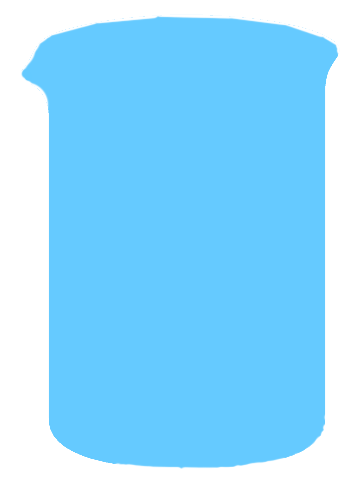
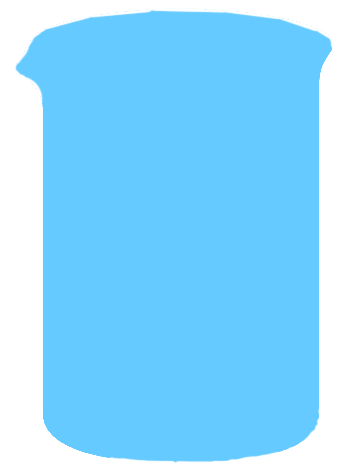
edits to mask, buttons move mask now

diff --git a/src/scripts/objects/glassware.ts b/src/scripts/objects/glassware.ts
@@ -16,22 +16,28 @@ export default class Glassware extends Phaser.GameObjects.Sprite {
     constructor(scene: Phaser.Scene, x: number, y: number, typeinput: string) {
         super(scene, x, y, typeinput); 
         this.setTintFill(0xCCC); //gradient [topLeft] [, topRight] [, bottomLeft] [, bottomRight]
+        
+        this.graphics = scene.add.graphics();
+        //this.graphics.fillStyle(0xff00ff, 1); //mask shape color
+        this.waterImage = new GameObjects.Sprite(scene, x,y, typeinput+'Fill');
+
+        let w = this.waterImage.width*2;
+        this.maskShape = this.graphics.fillRoundedRect(x-w/2, y- this.waterImage.height/2, w , this.waterImage.height-5, { tl: 0, tr: 0, bl: w/2, br: w/2 });
+        
+        this.mask = this.waterImage.createGeometryMask(this.graphics);
+        this.mask.invertAlpha = true;
+        this.waterImage.setMask(this.mask);
+        this.clearMask(); //mask off of lineart for some reason
+        //maskShape.y-=100;
+
+        scene.add.existing(this.waterImage);
+        
         scene.add.existing(this);
     }
 
-    addWater(){
-        if(this.waterAmount < this.max){
-            this.waterAmount += this.max/20;
-            //this.maskShape.y -= this.max/20
-        }
-    }
+    addWater(){};
 
-    subtractWater(){
-        if(this.waterAmount > 0){
-            this.waterAmount -= this.max/20;
-            //this.maskShape.y -= this.max/20
-        }
-    }
+    subtractWater(){};
 
     
 

diff --git a/src/scripts/scenes/mainScene.ts b/src/scripts/scenes/mainScene.ts
@@ -35,20 +35,6 @@ export default class MainScene extends Phaser.Scene {
     let y = 300;
     this.glassware = new Beaker(this, x, y).setDepth(99);
     
-    this.graphics = this.add.graphics();
-    //this.graphics.fillStyle(0xff00ff, 1);
-    this.waterImage = new GameObjects.Sprite(this, x,y,'beakerFill');
-
-    let w = this.waterImage.width*2;
-    let maskShape = this.graphics.fillRoundedRect(x-w/2, y- this.waterImage.height/2, w , this.waterImage.height, { tl: 0, tr: 0, bl: w/2, br: w/2 });
-    
-    this.mask = this.waterImage.createGeometryMask(this.graphics);
-    this.mask.invertAlpha = true;
-    this.waterImage.setMask(this.mask);
-    //this.waterImage.clearMask(); //mask off of lineart for some reason
-    maskShape.y-=100;
-
-    this.add.existing(this.waterImage);
 
 
   this.testtext = this.add.text(700, 100, 'WATER: '+ this.glassware.waterAmount, { backgroundColor: '#AA0AAA', padding:20});

diff --git a/src/scripts/objects/beaker.ts b/src/scripts/objects/beaker.ts
@@ -12,7 +12,21 @@ export default class Beaker extends Glassware{
         this.max = 800;
         this.target = 200;
 
-    }  
+    }
+    
+    addWater(){
+        if(this.waterAmount < this.max){
+            this.waterAmount += this.max/20;
+            this.maskShape.y -= (this.waterImage.height-115)/20;
+        }
+    }
+
+    subtractWater(){
+        if(this.waterAmount > 0){
+            this.waterAmount -= this.max/20;
+            this.maskShape.y += (this.waterImage.height-115)/20;
+        }
+    }
 
 }
 
